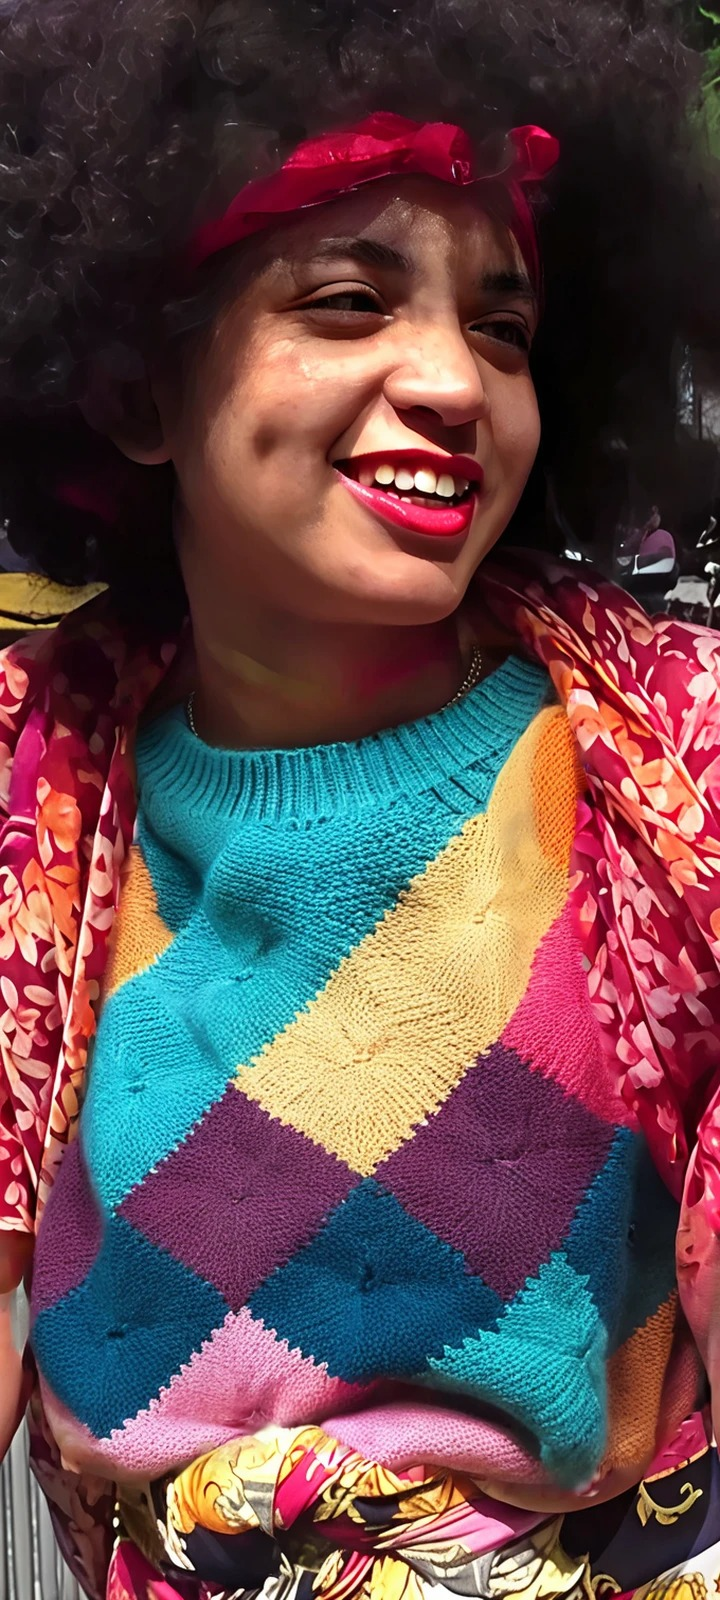
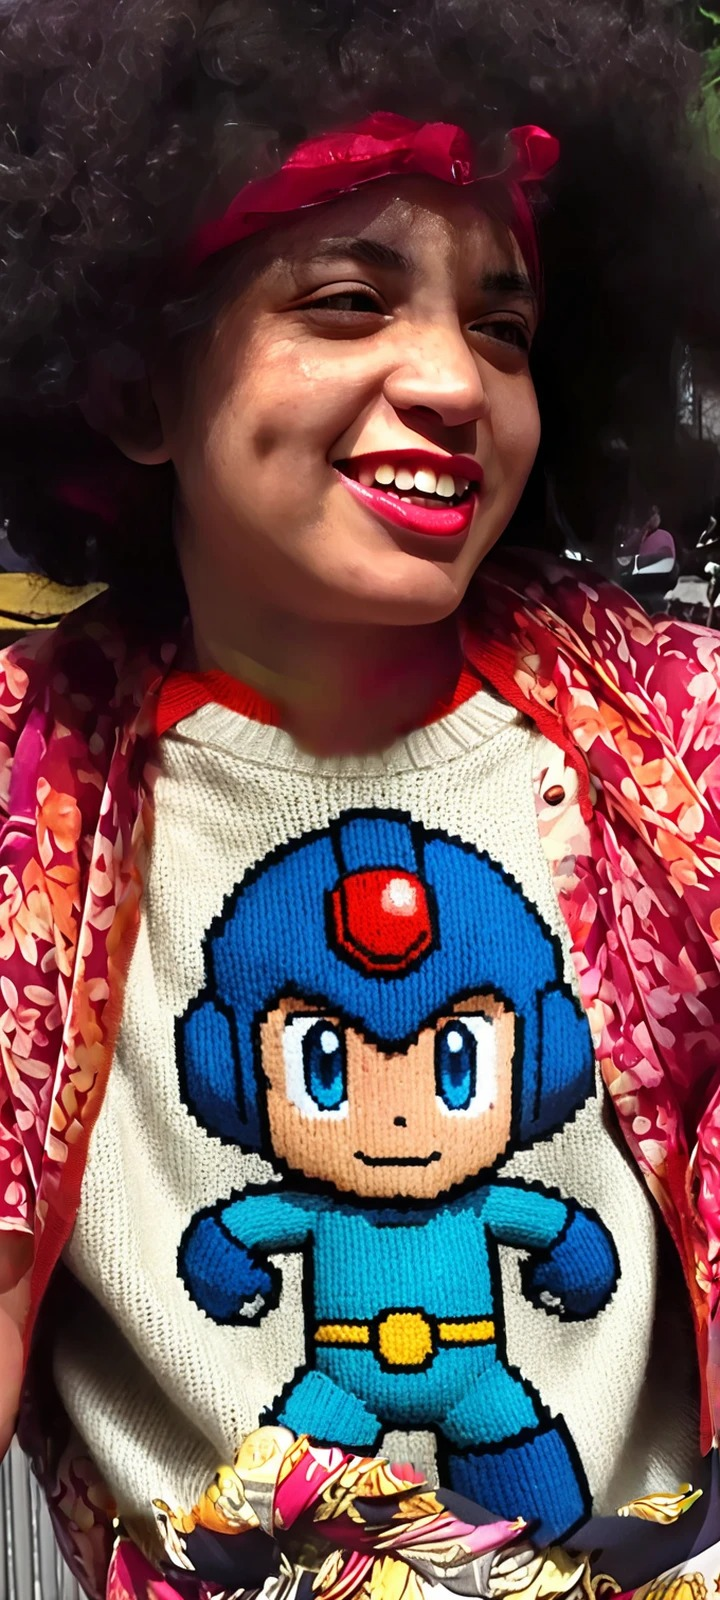
Sueter de megaman

diff --git a/calienteMx.html b/calienteMx.html
@@ -39,6 +39,7 @@
     function inicia(){
         incr=0;
         veces++;
+        clearInterval(inte);
         if(veces>=10){
             var tmp=$("body").css('background-image').toString().split(',');
             if(tmp.length>1){

diff --git a/deudasMx.html b/deudasMx.html
@@ -36,6 +36,7 @@
         }//if
         incr=0;
         veces++;
+        clearInterval(inte);
         inte=setInterval(function(){
             incr+=paso;
             if(Math.ceil(incr)%10==0){
